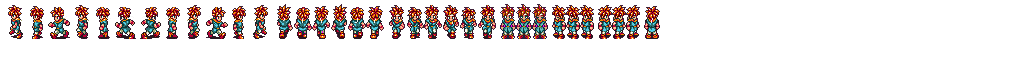
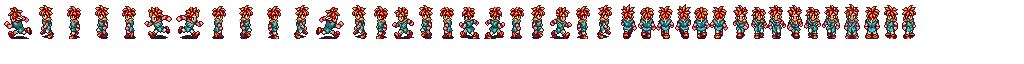
Work

diff --git a/core/src/io/michelfaria/chrono/actor/Crono.java b/core/src/io/michelfaria/chrono/actor/Crono.java
@@ -1,108 +1,93 @@
 package io.michelfaria.chrono.actor;
 
 import com.badlogic.gdx.Gdx;
-import com.badlogic.gdx.Input;
-import com.badlogic.gdx.controllers.Controller;
-import com.badlogic.gdx.controllers.Controllers;
-import com.badlogic.gdx.graphics.g2d.Animation;
-import com.badlogic.gdx.graphics.g2d.Batch;
-import com.badlogic.gdx.graphics.g2d.TextureAtlas;
+import com.badlogic.gdx.graphics.g2d.*;
 import com.badlogic.gdx.graphics.g2d.TextureAtlas.AtlasRegion;
-import com.badlogic.gdx.graphics.g2d.TextureRegion;
 import com.badlogic.gdx.scenes.scene2d.Actor;
+import com.badlogic.gdx.utils.Array;
 import io.michelfaria.chrono.Assets;
 import io.michelfaria.chrono.Game;
+import io.michelfaria.chrono.animation.ExtendedAnimation;
 import io.michelfaria.chrono.controller.Buttons;
 import io.michelfaria.chrono.controller.Ctrl;
 
+import static com.badlogic.gdx.graphics.g2d.Animation.PlayMode.LOOP;
+import static com.badlogic.gdx.graphics.g2d.Animation.PlayMode.LOOP_PINGPONG;
+
 public class Crono extends Actor {
 
-    private final Game game;
+    private Game game;
 
-    private static final String REG_IDLE_SOUTH = "crono-idle-south",
-            REG_IDLE_WEST = "crono-idle-west",
-            REG_IDLE_EAST = "crono-idle-east",
-            REG_IDLE_NORTH = "crono-idle-north",
-            REG_WALK_NORTH = "crono-walk-north",
-            REG_WALK_SOUTH = "crono-walk-south",
-            REG_WALK_EAST = "crono-walk-east",
-            REG_WALK_WEST = "crono-walk-west";
+    private static final float WALK_MOVEMENT_SPEED = 1f;
+    private static final float RUN_SPEED_MULTIPLIER = 2f;
 
-    private static final short IDLE_SOUTH_FRAME_COLS = 3,
-            IDLE_SOUTH_FRAME_ROWS = 1,
-            IDLE_WEST_FRAME_COLS = 3,
-            IDLE_WEST_FRAME_ROWS = 1,
-            IDLE_EAST_FRAME_COLS = 3,
-            IDLE_EAST_FRAME_ROWS = 1,
-            IDLE_NORTH_FRAME_COLS = 1,
-            IDLE_NORTH_FRAME_ROWS = 1,
-            WALK_NORTH_FRAME_COLS = 6,
-            WALK_NORTH_FRAME_ROWS = 1,
-            WALK_SOUTH_FRAME_COLS = 6,
-            WALK_SOUTH_FRAME_ROWS = 1,
-            WALK_EAST_FRAME_COLS = 6,
-            WALK_EAST_FRAME_ROWS = 1,
-            WALK_WEST_FRAME_COLS = 6,
-            WALK_WEST_FRAME_ROWS = 1;
+    private Animation<TextureRegion> idleNorth;
+    private Animation<TextureRegion> idleSouth;
+    private Animation<TextureRegion> idleWest;
+    private Animation<TextureRegion> idleEast;
+    private Animation<TextureRegion> walkNorth;
+    private Animation<TextureRegion> walkSouth;
+    private Animation<TextureRegion> walkWest;
+    private Animation<TextureRegion> walkEast;
+    private Animation<TextureRegion> runWest;
+    private Animation<TextureRegion> runEast;
 
-    private static final float WALK_ANIMATION_SPEED = 0.125f,
-            WALK_MOVEMENT_SPEED = 0.75f;
-
-    private final Animation<TextureRegion> idleSouthAni, idleWestAni, idleEastAni,
-            idleNorthAni, walkNorthAni, walkSouthAni, walkEastAni, walkWestAni;
-
-    // Mutable variables
     private Direction facing = Direction.SOUTH;
-    private boolean moving = false,
-            running = false;
-    private Animation<? extends TextureRegion> animation;
+    private boolean moving = false;
+    private boolean running = false;
     private float stateTime = 0;
+    private Animation<TextureRegion> animation;
 
     public Crono(Game game) {
         this.game = game;
 
-        final TextureAtlas atlas = game.asmgr.get(Assets.ASSET_TXATLAS, TextureAtlas.class);
+        TextureAtlas atlas = game.asmgr.get(Assets.ASSET_TXATLAS, TextureAtlas.class);
 
-        idleSouthAni = createAnimation(atlas, REG_IDLE_SOUTH, IDLE_SOUTH_FRAME_COLS, IDLE_SOUTH_FRAME_ROWS, 0.3f);
-        idleWestAni = createAnimation(atlas, REG_IDLE_WEST, IDLE_WEST_FRAME_COLS, IDLE_WEST_FRAME_ROWS, 0.3f);
-        idleEastAni = createAnimation(atlas, REG_IDLE_EAST, IDLE_EAST_FRAME_COLS, IDLE_EAST_FRAME_ROWS, 0.3f);
-        idleNorthAni = createAnimation(atlas, REG_IDLE_NORTH, IDLE_NORTH_FRAME_COLS, IDLE_NORTH_FRAME_ROWS, 0);
-        walkNorthAni = createAnimation(atlas, REG_WALK_NORTH, WALK_NORTH_FRAME_COLS, WALK_NORTH_FRAME_ROWS, WALK_ANIMATION_SPEED);
-        walkSouthAni = createAnimation(atlas, REG_WALK_SOUTH, WALK_SOUTH_FRAME_COLS, WALK_SOUTH_FRAME_ROWS, WALK_ANIMATION_SPEED);
-        walkEastAni = createAnimation(atlas, REG_WALK_EAST, WALK_EAST_FRAME_COLS, WALK_EAST_FRAME_ROWS, WALK_ANIMATION_SPEED);
-        walkWestAni = createAnimation(atlas, REG_WALK_WEST, WALK_WEST_FRAME_COLS, WALK_WEST_FRAME_ROWS, WALK_ANIMATION_SPEED);
+        // Idle
+        idleNorth = new Animation<TextureRegion>(0, atlas.findRegion("crono-idle-north"));
+        idleSouth = new Animation<TextureRegion>(0, atlas.findRegion("crono-idle-south"));
+        idleWest = new Animation<TextureRegion>(0, atlas.findRegion("crono-idle-west"));
+        idleEast = new Animation<TextureRegion>(0, atlas.findRegion("crono-idle-east"));
+
+        // Walk
+        walkNorth = new Animation<>(0.125f, splitTexSeq(atlas, "crono-walk-north", 6, 1), LOOP);
+        walkSouth = new Animation<>(0.125f, splitTexSeq(atlas, "crono-walk-south", 6, 1), LOOP);
+        walkEast = new Animation<>(0.125f, splitTexSeq(atlas, "crono-walk-east", 6, 1), LOOP);
+        walkWest = new Animation<>(0.125f, splitTexSeq(atlas, "crono-walk-west", 6, 1), LOOP);
+
+        // Run
+        runWest = new Animation<>(0.1f, splitTexSeq(atlas, "crono-run-west", 6, 1), LOOP_PINGPONG);
+        runEast = new Animation<>(0.1f, splitTexSeq(atlas, "crono-run-east", 6, 1), LOOP_PINGPONG);
     }
 
     /**
-     * Assumes a left-to-right up-down animation sequence.
+     * Splits a texture sequence (spritesheet) into individual TextureRegions in a 1-dimension array.
+     * The textures are ordered left-to-right, up-to-down.
      *
      * @param atlas      Atlas containing texture regions
      * @param regionName Name of the atlas region
      * @param frameCols  Amount of columns in animation
      * @param frameRows  Amount of rows in animation
-     * @return Animation
      */
-    protected Animation<TextureRegion> createAnimation(final TextureAtlas atlas, final String regionName, final int frameCols, final int frameRows, final float frameDuration) {
-        // Load the sheet
-        final AtlasRegion reg = atlas.findRegion(regionName);
+    public Array<TextureRegion> splitTexSeq(TextureAtlas atlas, String regionName, int frameCols, int frameRows) {
+        AtlasRegion reg = atlas.findRegion(regionName);
         assert reg != null : regionName;
 
         // Use the split utility method to create a 2D array of TextureRegions.
-        final TextureRegion[][] tmp = reg.split(reg.getRegionWidth() / frameCols,
+        TextureRegion[][] tmp = reg.split(reg.getRegionWidth() / frameCols,
                 reg.getRegionHeight() / frameRows);
 
         // Place the regions into a 1D array in the correct order, starting from the top
         // left, going across first. The Animation constructor requires a 1D array.
-        TextureRegion[] regIdleSouthFrames = new TextureRegion[frameRows * frameCols];
+        Array<TextureRegion> textures = new Array<>(frameRows * frameCols);
         int index = 0;
         for (int i = 0; i < frameRows; i++) {
             for (int j = 0; j < frameCols; j++) {
-                regIdleSouthFrames[index++] = tmp[i][j];
+                textures.add(tmp[i][j]);
             }
         }
 
-        // Initialize the Animation with the frame interval and array of frames
-        return new Animation<>(frameDuration, regIdleSouthFrames);
+        return textures;
     }
 
     @Override
@@ -136,6 +121,11 @@ public class Crono extends Actor {
             yMoveSpeed = -WALK_MOVEMENT_SPEED;
             facing = Direction.SOUTH;
         }
+        running = Ctrl.isButtonPressed(0, Buttons.B);
+        if (running) {
+            xMoveSpeed *= RUN_SPEED_MULTIPLIER;
+            yMoveSpeed *= RUN_SPEED_MULTIPLIER;
+        }
         if (xMoveSpeed == 0 && yMoveSpeed == 0) {
             moving = false;
         } else {
@@ -145,38 +135,53 @@ public class Crono extends Actor {
 
     protected void updateAnimations() {
         if (animation == null) {
-            animation = idleSouthAni;
+            animation = idleSouth;
         }
-        if (moving) {
+        if (running && moving) {
+            // Running
+            switch (facing) {
+                case NORTH:
+                    break;
+                case SOUTH:
+                    break;
+                case WEST:
+                    animation = runWest;
+                    break;
+                case EAST:
+                    animation = runEast;
+                    break;
+            }
+        } else if (moving) {
+            assert !running;
             // Walking
             switch (facing) {
                 case NORTH:
-                    animation = walkNorthAni;
+                    animation = walkNorth;
                     break;
                 case SOUTH:
-                    animation = walkSouthAni;
+                    animation = walkSouth;
                     break;
                 case WEST:
-                    animation = walkWestAni;
+                    animation = walkWest;
                     break;
                 case EAST:
-                    animation = walkEastAni;
+                    animation = walkEast;
                     break;
             }
         } else {
             // Standing still
             switch (facing) {
                 case NORTH:
-                    animation = idleNorthAni;
+                    animation = idleNorth;
                     break;
                 case SOUTH:
-                    animation = idleSouthAni;
+                    animation = idleSouth;
                     break;
                 case WEST:
-                    animation = idleWestAni;
+                    animation = idleWest;
                     break;
                 case EAST:
-                    animation = idleEastAni;
+                    animation = idleEast;
                     break;
             }
         }
@@ -191,7 +196,8 @@ public class Crono extends Actor {
         super.draw(batch, parentAlpha);
         stateTime += Gdx.graphics.getDeltaTime();
 
-        final TextureRegion currentFrame = animation.getKeyFrame(stateTime, true);
+        TextureRegion currentFrame = animation.getKeyFrame(stateTime);
+
         batch.draw(currentFrame, getX(), getY());
     }
 }

diff --git a/core/src/io/michelfaria/chrono/animation/ExtendedAnimation.java b/core/src/io/michelfaria/chrono/animation/ExtendedAnimation.java
@@ -1,0 +1,82 @@
+package io.michelfaria.chrono.animation;
+
+import com.badlogic.gdx.graphics.g2d.Animation;
+import com.badlogic.gdx.graphics.g2d.TextureRegion;
+import com.badlogic.gdx.utils.Array;
+
+import java.lang.reflect.Field;
+import java.util.NavigableMap;
+import java.util.TreeMap;
+
+public class ExtendedAnimation<T> extends Animation<T> {
+
+    private final NavigableMap<Float, Integer> durationFrameMap;
+    private final float totalTime;
+
+    // You know what? It would be fucking **wonderful** if Animation was an interface.
+    // Then I wouldn't have to do this reflection crap.
+    private final Field lastFrameNumberField;
+    private final Field lastStateTimeField;
+
+    {
+        try {
+            lastFrameNumberField = Animation.class.getDeclaredField("lastFrameNumber");
+            lastStateTimeField = Animation.class.getDeclaredField("lastStateTime");
+            lastFrameNumberField.setAccessible(true);
+            lastStateTimeField.setAccessible(true);
+        } catch (NoSuchFieldException ex) {
+            throw new ExceptionInInitializerError(ex);
+        }
+    }
+
+    public ExtendedAnimation(Array<T> keyFrames, PlayMode playMode, float[] frameDurations) {
+        super(0f, keyFrames);
+        setPlayMode(playMode);
+        if (frameDurations.length != keyFrames.size) {
+            throw new IllegalArgumentException("Key frame durations array length does not match key frame array length");
+        }
+
+        durationFrameMap = new TreeMap<>();
+        float sum = 0;
+        for (int i = 0; i < frameDurations.length; i++) {
+            durationFrameMap.put(sum, i);
+            sum += frameDurations[i];
+        }
+
+        // Calculate the total duration of the animation
+        sum = 0;
+        for (Float e : frameDurations) {
+            sum += e;
+        }
+        totalTime = sum;
+    }
+
+    @Override
+    public int getKeyFrameIndex(float stateTime) {
+        if (super.getKeyFrames().length == 1) {
+            return 0;
+        }
+        int frameNumber;
+        switch (getPlayMode()) {
+            case NORMAL:
+                frameNumber = stateTime > totalTime
+                        ? getKeyFrames().length - 1 // Last keyframe
+                        : durationFrameMap.get(durationFrameMap.floorKey(stateTime));
+                break;
+            case LOOP:
+                frameNumber = durationFrameMap.get(durationFrameMap.floorKey(stateTime % totalTime));
+                break;
+            default:
+                throw new RuntimeException("Not implemented: " + getPlayMode());
+        }
+
+        try {
+            lastFrameNumberField.set(this, frameNumber);
+            lastStateTimeField.set(this, stateTime);
+        } catch (IllegalAccessException ex) {
+            throw new RuntimeException(ex);
+        }
+
+        return frameNumber;
+    }
+}

diff --git a/core/src/io/michelfaria/chrono/PlayScreen.java b/core/src/io/michelfaria/chrono/PlayScreen.java
@@ -11,11 +11,11 @@ import io.michelfaria.chrono.actor.Crono;
 
 public class PlayScreen implements Screen {
 
-    private final Game game;
+    private Game game;
 
-    private final OrthographicCamera camera;
-    private final Viewport viewport;
-    private final Stage stage;
+    private OrthographicCamera camera;
+    private Viewport viewport;
+    private Stage stage;
 
     public PlayScreen(Game game) {
         this.game = game;
